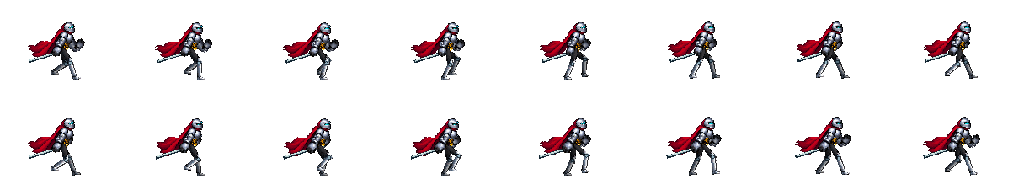
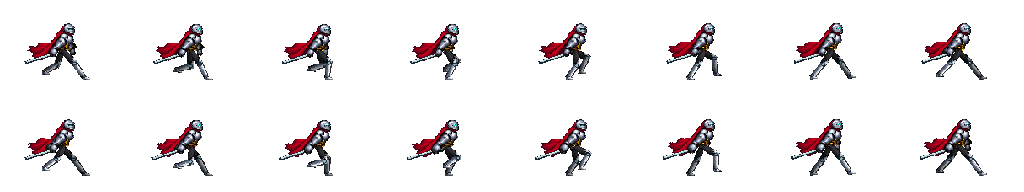
feat: add direction-controlled sword steps and stronger running poses

diff --git a/art/characters/grounded-run-v001/sources/process.py b/art/characters/grounded-run-v001/sources/process.py
@@ -51,11 +51,11 @@ def smooth(keys,t):
 def leg(im,hip,foot,front):
  dx,dy=foot[0]-hip[0],foot[1]-hip[1];dist=math.hypot(dx,dy);L1,L2=17,18
  if dist>L1+L2-.1:
-  k=(L1+L2-.1)/dist;foot=(hip[0]+dx*k,hip[1]+dy*k);dx*=k;dy*=k;dist*=k
+  extension=(dist+.1)/(L1+L2);L1*=extension;L2*=extension
  along=(L1*L1-L2*L2+dist*dist)/(2*dist);h=math.sqrt(max(0,L1*L1-along*along));knee=(hip[0]+dx*along/dist+dy*h/dist,hip[1]+dy*along/dist-dx*h/dist)
  shade=1 if front else .65
- place(im,thigh,(72*4,57*4),(73*4,65*4),hip,knee,shade,width=1.0)
- place(im,shin,(73*4,66*4),(72.5*4,75*4),knee,foot,shade,width=1.0)
+ place(im,thigh,(72*4,57*4),(73*4,65*4),hip,knee,shade,width=1.15)
+ place(im,shin,(73*4,66*4),(72.5*4,75*4),knee,foot,shade,width=1.15)
  # Heel follows the shin through the airborne recovery; sole remains flat on contact.
  lift=max(0,76-foot[1]);toe=(foot[0]+6,foot[1]+min(3,lift*.16))
  place(im,boot,(72.5*4,76*4),(79*4,77*4),foot,toe,shade)
@@ -79,9 +79,9 @@ for mode in ['run','sprint','walk','idle']:
   for i in range(count):
    t=i/count;im=Image.new('RGBA',(512,384))
    bob=.6*math.sin(t*math.tau*2)
-   hip=(64,(45.0 if mode=='sprint' else 44.0)+bob);lean=2 if mode=='sprint' else 0
-   keys=[(13,77),(2,77),(-12,77),(-17,74),(-13,70),(-2,70),(9,73),(14,76)]
-   if mode=='sprint':keys=[(17,77),(3,77),(-15,77),(-20,73),(-16,66),(-3,66),(11,71),(18,76)]
+   hip=(64,(47.0 if mode=='sprint' else 45.5)+bob);lean=2 if mode=='sprint' else 0
+   keys=[(24,77),(8,77),(-10,77),(-24,76),(-24,70),(-12,66),(5,69),(21,75)]
+   if mode=='sprint':keys=[(30,77),(10,77),(-14,77),(-30,75),(-27,67),(-13,63),(9,68),(27,74)]
    if mode=='walk':keys=[(10,77),(5,77),(0,77),(-6,77),(-10,77),(-6,75),(0,74),(7,75)];hip=(64,44+math.sin(t*math.tau*2)*.4)
    if mode=='idle':hip=(64,44.0+math.sin(t*math.tau)*.35)
    def foot(p):
@@ -97,13 +97,13 @@ for mode in ['run','sprint','walk','idle']:
    place(im,cap,body_hip,body_top,hip,target_top)
    leg(im,(hip[0]-2,hip[1]),(57,77) if mode=='idle' else foot(t+.5),False)
    swing=0 if mode=='idle' else math.cos(t*math.tau)
-   arm(im,(70+lean,hip[1]-11),(71+lean+8*swing,hip[1]-2),(77+lean+7*swing,hip[1]-9),False)
+   arm(im,(65+lean,hip[1]-14),(64+10*swing,hip[1]-4),(61+14*swing,hip[1]+2),False)
    place(im,body,body_hip,body_top,hip,target_top)
    leg(im,hip,(70,77) if mode=='idle' else foot(t),True)
    # Armed rear hand carries the blade; unarmed runner counter-swings both arms.
    shoulder=(63+lean,hip[1]-13)
-   elbow=(59+(2 if armed else -7*swing),hip[1]-5)
-   hand=(55+(2*math.sin(t*math.tau) if armed else -9*swing),hip[1]+3 if armed else hip[1]-2)
+   elbow=(56 if armed else 64-10*swing,hip[1]-4)
+   hand=(51+2*math.sin(t*math.tau) if armed else 66-14*swing,hip[1]+3)
    if mode=='idle':elbow=(64,hip[1]-5);hand=(68,hip[1]+4)
    if armed:
     d=ImageDraw.Draw(im);x,y=[v*4 for v in hand]

diff --git a/tools/prepare_directed_slash.py b/tools/prepare_directed_slash.py
@@ -1,0 +1,30 @@
+"""Compact distinct stationary/advancing sword atlases; retain original sources."""
+from pathlib import Path
+import numpy as np
+from PIL import Image
+
+ROOT = Path(__file__).resolve().parents[1]
+OUT = ROOT / 'art/characters/directed-slash-v001'
+OUT.mkdir(exist_ok=True)
+planted = Image.open(ROOT / 'art/characters/combo-v005/planted.png').convert('RGBA')
+moving = Image.open(ROOT / 'art/characters/combo-v004/moving.png').convert('RGBA')
+
+def restrained_trail(tile):
+    pixels = np.array(tile)
+    red, green, blue = [pixels[:, :, i].astype(int) for i in range(3)]
+    yy, xx = np.indices(red.shape)
+    # The reactor stays bright. Only the detached cyan sweep outside the torso fades.
+    arc = (green > red + 12) & (blue > red + 12) & ((xx > 96) | (yy < 38))
+    pixels[arc, 3] = (pixels[arc, 3].astype(float) * .18).astype('uint8')
+    return Image.fromarray(pixels)
+
+for mode in ['planted', 'advancing']:
+    atlas = Image.new('RGBA', (1280, 384))
+    for step in range(3):
+        for frame in range(8):
+            gait = [0, 0, 1, 3, 5, 6, 7, 7][frame]
+            source = planted if mode == 'planted' else moving
+            row = step if mode == 'planted' else step * 8 + gait
+            tile = source.crop((frame * 160, row * 128, (frame + 1) * 160, (row + 1) * 128))
+            atlas.alpha_composite(restrained_trail(tile), (frame * 160, step * 128))
+    atlas.save(OUT / (mode + '.png'))

diff --git a/CONTEXT.md b/CONTEXT.md
@@ -109,7 +109,7 @@
 
 **弧線連斬美術 v003（歷史版本）**：使用者否定高舉直落的砍法後，主戰役改成斜切、反手橫掃、踏步斜斬。手臂在胸腰間出刀，胸背轉向與淺斜／橫向劍路交替。沿用三段連招規則與資料入口，v002 的高舉砍法作為歷史素材保留，不能當作新的美術目標。
 
-**連斬踏進**：第一刀原地；第二、三刀預設分別前進 22、32 世界像素，不按方向鍵也會前進。踏步集中在有效揮擊段，起手與收招站定；每刀使用起手時的面向，下一刀可依方向輸入轉向。牆壁限制實際位移，受擊、死亡或衝刺取消剩餘踏步；暫停凍結。保留既有跳躍與重力，空中出刀也不會接受水平走動輸入。入口為 knight_combo.tres 的 Forward Step。
+**方向踏斬（現行）**：不按方向的三刀全部原地；按住鍵盤方向或手機拖曳方向，才使用獨立踏斬圖並於有效揮擊段前進。第一、二刀共用 Return Step Distance（預設 22），第三刀 Finisher Step Distance（32）；放開方向停止推進，不儲存未用位移。每刀鎖定面向，反向輸入影響下一刀，不把當前劍反轉；碰牆、暫停、受擊取消規則保留。這取代上方歷史版本的第一刀固定原地／後兩刀無輸入自動踏進規則。
 
 **騎士劍術 v004**：使用者否定 v003 動作美感後，主戰役換成斜向拔切、反手回斬、跨步穿刺；以直立／低姿、腰肩轉向及披風滯後拉開三刀差異。各八格、共用交接姿勢與中立收勢，時間權重仍對齊原有效揮擊窗口。保留第一刀站定、第二／三刀踏進及其全部戰鬥規則。入口仍為 knight_combo_motion.tres；這是新提案，尚未獲使用者美感認可。
 

diff --git a/AGENTS.md b/AGENTS.md
@@ -11,6 +11,7 @@
 - 封印左右兩門召喚最終巨龍；擊敗巨龍且清除殘敵才通關。強度最低第 6 天，較晚召喚逐日成長，召喚後鎖定。見 `docs/design/dragon-frontier.md`。
 - 避難所採現場投入、居民自主取器具與工作；居民只在實際受擊且未被防護擋住時退回流浪者，細則見 `docs/design/walkable-refuge.md`。
 - 戰鬥與避難所經營先分開驗證；主戰役改為平地探索與兩段快慢移動，不需要跳躍或瞬間衝刺。
+- 騎士不按方向的三段連斬全部原地；按住方向才使用獨立踏斬動作並在有效揮擊段向前移動。放開即停止推進、不補發未用位移；每刀保持已鎖定面向，方向輸入可影響下一刀。不要恢復無輸入的自動連斬踏進。
 - 使用者一人製作，以低固定成本、可維護與市場驗證為優先。
 - 新增或修改玩家文字須同步繁中、簡中、英文目錄，保留格式占位符；不要把翻譯文字當作玩法判斷值。
 - 新旅程移除常駐數值 HUD，以袋子、天色與動作回饋呈現；日出短暫顯示天數。主玩法介面使用圖示與必要數字；不要恢復常駐文字面板、文字按鈕或人物／建築文字牌。成本與材料圖示必須讀實際互動規則。

diff --git a/art/characters/directed-slash-v001/README.md b/art/characters/directed-slash-v001/README.md
@@ -1,0 +1,7 @@
+# Directed sword cuts
+
+Two compact 1280×384 atlases, each three eight-frame cuts, cells 160×128 with the existing y=112 sole anchor. `planted.png` retains the authored v005 stationary choreography. `advancing.png` compacts selected poses from the existing v004 moving atlas into a single step sequence per cut; it does not replay a walking cycle during the swing.
+
+Rebuild with `tools/prepare_directed_slash.py` (Pillow + NumPy). All source images remain in combo-v005 and combo-v004. Detached cyan sweep pixels are reduced to 18% alpha outside the torso; the reactor, steel blade and red cape remain readable. No stacked full-body afterimages are added. Mounted procedural trails are separately thinner and lower opacity; hit sparks and hit stop are retained.
+
+`knight_combo_motion.tres` sets `moving_gait_rows=1`. Older resources retain the eight-row default. Runtime selects this atlas using current direction intent, preserving the same combo step and progress when the direction is released; it never restarts the swing or damage window.

diff --git a/art/characters/grounded-run-v001/README.md b/art/characters/grounded-run-v001/README.md
@@ -31,3 +31,7 @@ Active atlas audit:
 | Legacy jump/dash/moving attack/training | Retained for legacy scenes/tests; unavailable in the current flat campaign; originals are not bulk-rewritten |
 
 Equipment material follows idle, movement, on-foot recovery, unarmed and ceremony states. Mounted recovery deliberately follows the mounted material rather than tinting the entire horse with the infantry armour shader.
+
+## Broader stride and lowered arms
+
+The next player feedback rejected the close-to-chest hand posture and small stride. Running foot paths now span about 48 source pixels, sprint 60, with counter-swinging hands down near the waist and the armed hand carried farther behind. Plate width remains independent of leg extension; longer strides keep their authored ground contacts instead of clamping the toes upward. Idle, ceremony and recovery continue sharing the same armour parts. Runtime cadence and actual movement speeds are unchanged.

diff --git a/docs/lessons/74-directional-slash.md b/docs/lessons/74-directional-slash.md
@@ -1,0 +1,9 @@
+# 第 74 課：方向輸入與攻擊動畫
+
+現在攻擊有兩種：不按方向時原地連斬；按住方向才踏斬。手機左側拖曳與鍵盤方向共用同一規則。
+
+Godot 的 `actor_body.gd` 將方向交給核心。`combatant.gd` 計算這個揮擊時段可前進多少，沒有方向就丟棄該段位移。因此鬆手再按不會突然滑出先前累積的距離。視覺層用相同方向狀態選擇圖集，攻擊進度和命中判定不重播。
+
+在 Godot 開啟 `data/knight_combo.tres`：Return Step Distance 現在同時控制第一、第二刀的方向踏步，Finisher Step Distance 控制第三刀。兩者都只在按住方向時生效；不按方向仍然是原地攻擊。
+
+可練習：在空地先連按 J，再按住 D 連按 J，比較動作和距離；第二次在揮擊中途放開 D，應停止向前推進。這不改目前的存檔格式。
